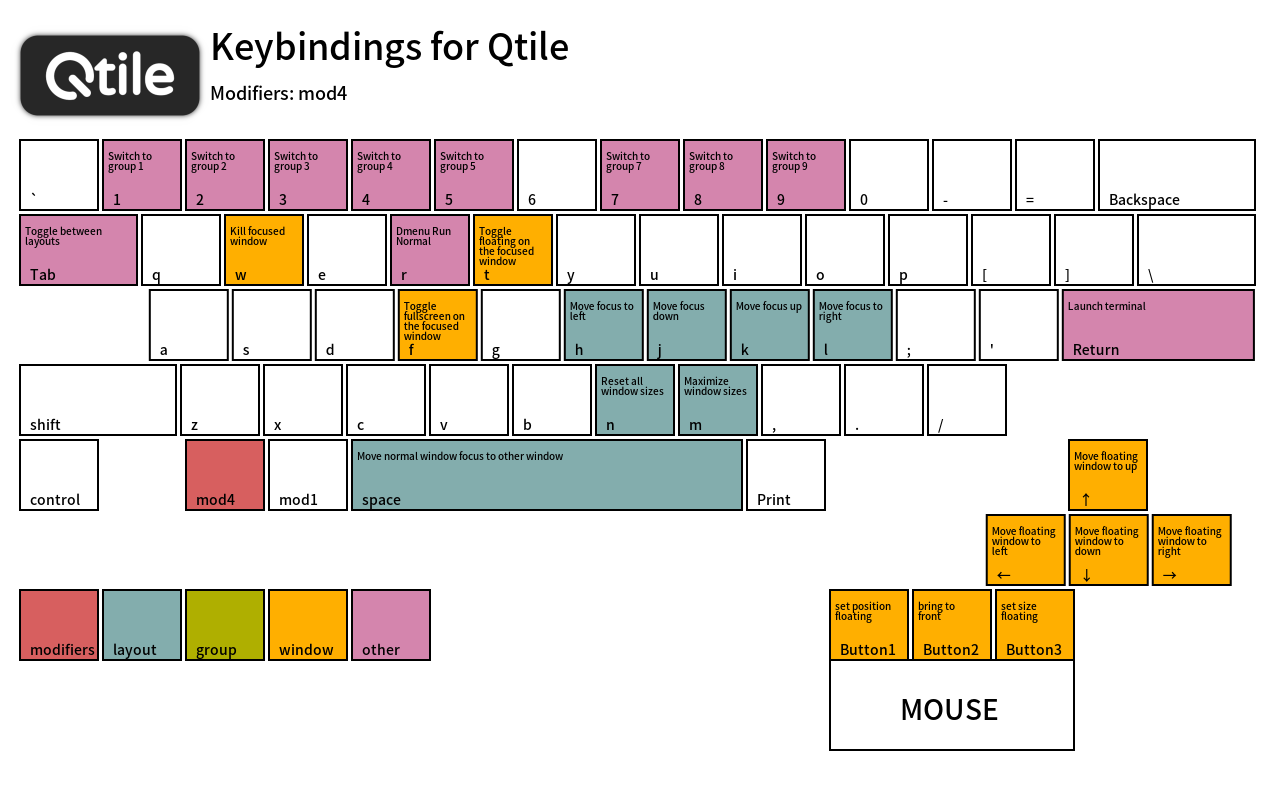
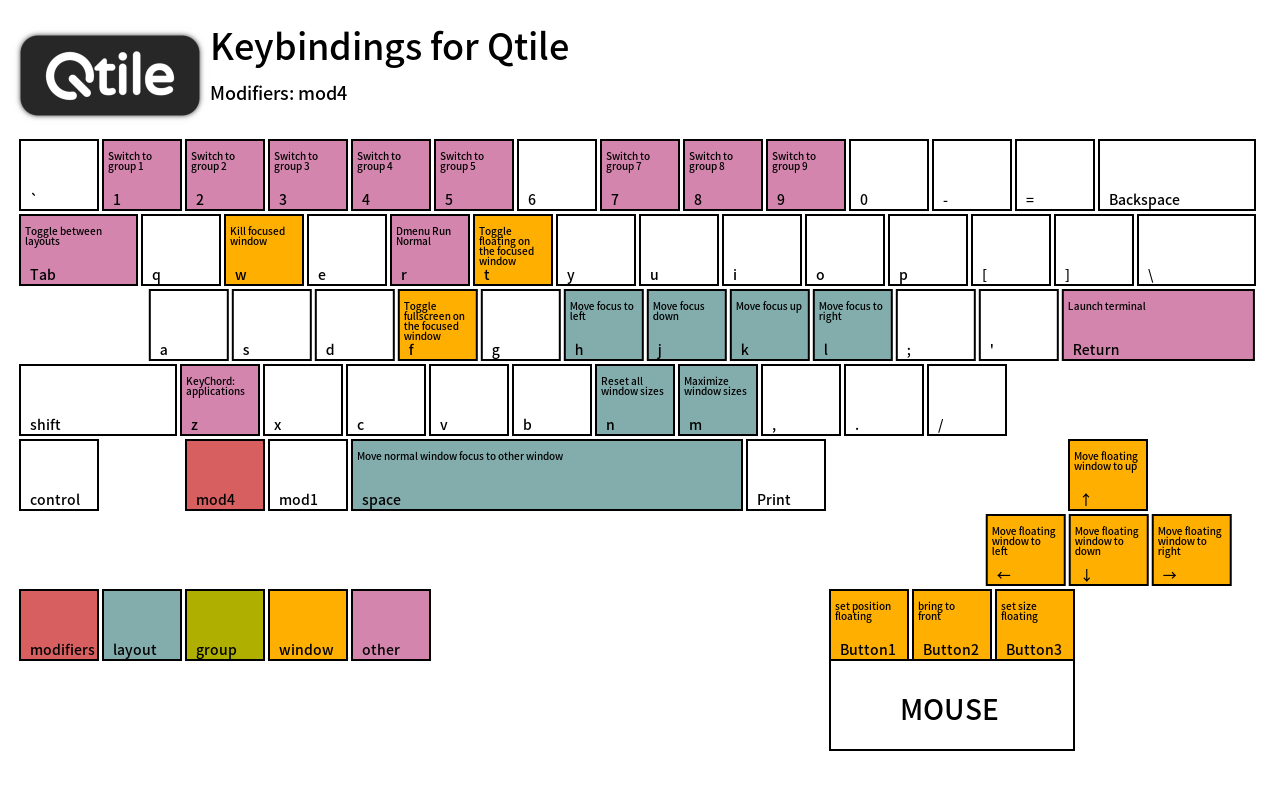
gen-keybinding-img only supports the first key binding of KeyChord

Changed region(s): [[0.125, 0.4375, 0.2188, 0.5625]]

diff --git a/modules/keys.py b/modules/keys.py
@@ -142,6 +142,7 @@ keys = [
   ## INFO: Not reflected in gen-keybinding-img?
   KeyChord([mod4], 'z', [
       Key([], 'b', lazy.spawn('brave'),     desc = 'Launch Brave'),
+      # Key(['shift'], 'b', lazy.spawn('brave --incognito'),  desc = 'Launch Brave Incognito'),
       Key([], 'k', lazy.spawn('keepassxc'), desc = 'Launch KeepassXC'),
     ],
     mode = True,

diff --git a/modules/groups.py b/modules/groups.py
@@ -103,7 +103,7 @@ groups = [
     layouts = [
       layout.Floating(**layout_setting_floating),
       layout.Max(**layout_setting_max),
-      layout.Matrix(**layout_setting_matrix, columns = 4),
+      layout.Matrix(**layout_setting_matrix, columns = 3),
     ],
     init = True, persist = True,
   ),

diff --git a/README.md b/README.md
@@ -102,7 +102,9 @@ And I created icons of [CurrentLayoutIcon](https://docs.qtile.org/en/latest/manu
 ### I'm making "Keybindings in images" available for use
 
 > [!NOTE]
-> I rewrote some parts of [`gen-keybinding-img`](./scripts/gen-keybinding-img) so that it bypasses the functions of `KeyChord`.
+> I rewrote some parts of [`gen-keybinding-img`](./scripts/gen-keybinding-img).  
+> - Fonts, layouts etc.
+> - Terribly low level display support for KeyChord
 
 Maybe because I installed it with `yay`, I'm not in an environment where I can use [Keybindings in images](https://docs.qtile.org/en/latest/manual/commands/keybindings.html).  
 However, I have forced it, `gen-keybinding-img` to work.  
